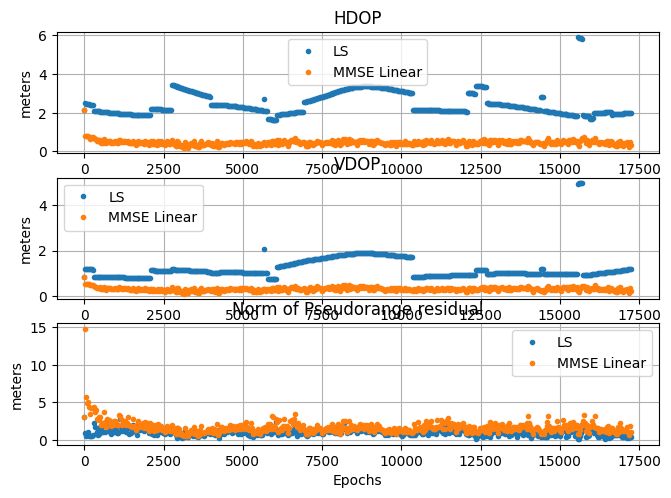
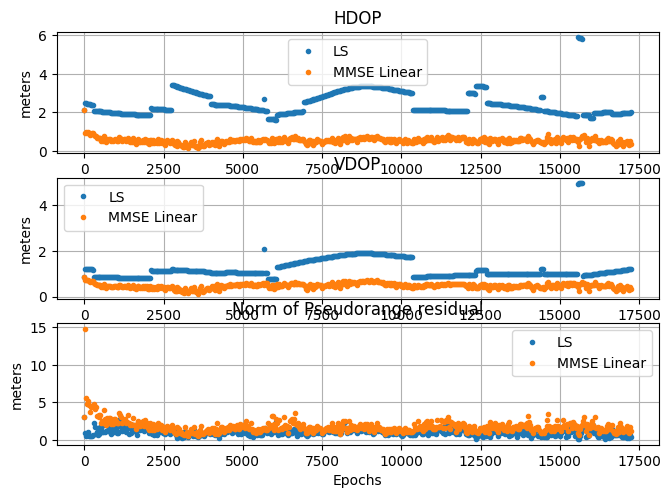
Update Px in MMSE

diff --git a/src/receiver.py b/src/receiver.py
@@ -430,11 +430,16 @@ class RxPVTCalculation:
         pseudos = dataSys.pseudorange[manager.currentTimeEpoch.t_ix, self.svResultHandlerWindow.measIdx]
         y = self._process_pseudo(pseudos)
 
-        # Prior PSD
-        rngGeom = np.linalg.norm(self.svResultHandlerWindow.pos[:,:3]- self.xRx[:3],axis=1)
-        fi = np.array([yy * (2*ss - self.xRx[:3]) / rr**3 + (ss - self.xRx[:3])**2 / rr**2 \
-                       for yy,rr,ss in zip(y,rngGeom,self.svResultHandlerWindow.pos[:,:3])]).sum(axis = 0)
-        fi = np.hstack([fi, 2 * self.svResultHandlerWindow.numMeas])
+        # Prior PDF
+        xRxMat = self.xRx[:3].repeat(self.svResultHandlerWindow.numMeas).reshape(3,self.svResultHandlerWindow.numMeas).T
+        rngGeom = np.linalg.norm(self.svResultHandlerWindow.pos[:,:3] - xRxMat,axis=1)
+
+        term_1_num = self.svResultHandlerWindow.pos[:,:3] - xRxMat
+        term_1_den = (rngGeom).repeat(3).reshape(rngGeom.size,3)
+        term_2_num = (rngGeom**2).repeat(3).reshape(rngGeom.size,3) + (self.svResultHandlerWindow.pos[:,:3] - xRxMat)
+        term_2_den = (rngGeom**3).repeat(3).reshape(rngGeom.size,3)
+        fi = np.abs(np.sum(term_1_num / term_1_den - term_2_num / term_2_den, axis = 0))
+        fi = np.hstack([fi, self.svResultHandlerWindow.numMeas])
         fi = fi / y.var()
         Px = np.diag(1/fi) * mode.mmse_px_mpy
 

diff --git a/src/config.py b/src/config.py
@@ -145,7 +145,7 @@ MODES_LSE_VS_MMSE     = [
                         _use_ls = False,
                         _ls_weight_algorithm = WeightAlgorithms().algo_linear,
                         _mmse_px_mpy = 1,
-                        _mmse_r_mpy = 0.5)
+                        _mmse_r_mpy = 0.1)
                         ]
 
 class Config:
